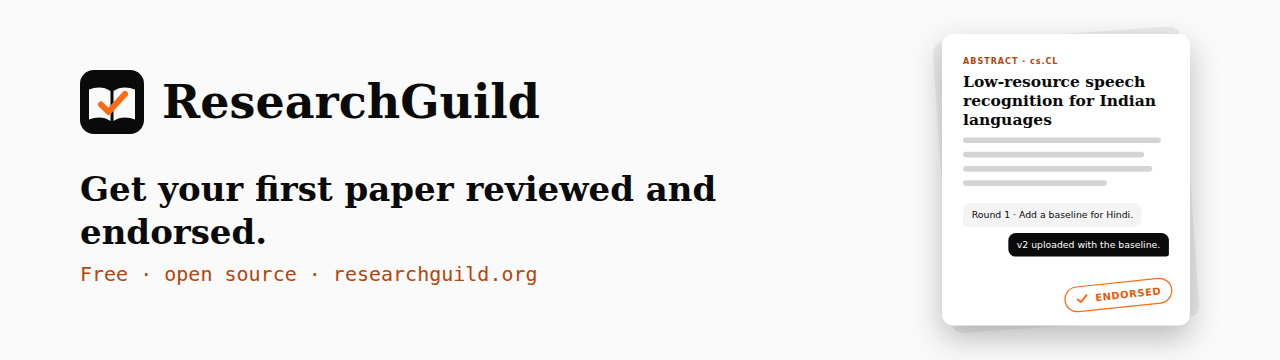
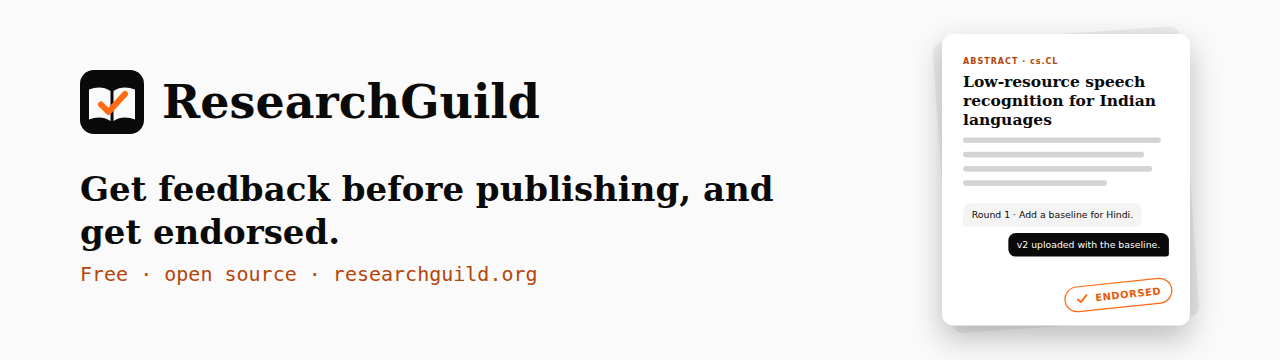
Match title, search description, social card and README to the new headline
Claude-Session: https://claude.ai/code/session_01VBqtYbz55tVsRNEY4KaHsK

Changed region(s): [[0.125, 0.4889, 0.625, 0.5806], [0.0625, 0.6111, 0.2812, 0.7028]]

diff --git a/src/app/layout.tsx b/src/app/layout.tsx
@@ -4,9 +4,9 @@ import { APP_NAME, SITE_URL } from "@/lib/env";
 
 export const metadata: Metadata = {
   metadataBase: new URL(SITE_URL),
-  title: { default: `${APP_NAME}: get feedback and an arXiv endorsement for your first paper`, template: `%s · ${APP_NAME}` },
+  title: { default: `${APP_NAME}: feedback before publishing, endorsement for your first paper`, template: `%s · ${APP_NAME}` },
   description:
-    "Post your abstract, get honest feedback from people who have published, and find an arXiv endorser in your field. Free, open source, with a sign-in-free learning center.",
+    "Get honest feedback on your paper before publishing, and find someone to endorse you for your first paper in a domain. Free and open source, with a sign-in-free arXiv learning center.",
   openGraph: { siteName: APP_NAME, type: "website" },
   twitter: { card: "summary_large_image" },
 };

diff --git a/src/app/(public)/about/page.tsx b/src/app/(public)/about/page.tsx
@@ -8,7 +8,7 @@ export default function About() {
   return (
     <article className="container-page max-w-3xl py-12 prose-learn">
       <h1 className="h1">About {APP_NAME}</h1>
-      <p><strong>Get your first paper reviewed and endorsed.</strong></p>
+      <p><strong>Get honest feedback on your paper before publishing, and find someone to endorse you for your first paper in a domain.</strong></p>
       <p>
         On {APP_NAME}, first-time researchers (students, young learners and independent researchers anywhere) learn how arXiv works,
         revise their paper with people who have published, and find an endorser in their field. Endorsers choose the abstracts they

diff --git a/README.md b/README.md
@@ -1,11 +1,11 @@
 <p align="center">
   <picture>
     <source media="(prefers-color-scheme: dark)" srcset=".github/banner-dark.png">
-    <img src=".github/banner-light.png" alt="ResearchGuild: get your first paper reviewed and endorsed" width="100%">
+    <img src=".github/banner-light.png" alt="ResearchGuild: get feedback before publishing, and get endorsed" width="100%">
   </picture>
 </p>
 
-<h3 align="center">Get your first paper reviewed and endorsed.</h3>
+<h3 align="center">Get honest feedback on your paper before publishing, and find someone to endorse you for your first paper in a domain.</h3>
 
 <p align="center">
   <a href="https://researchguild.org">Website</a> ·
